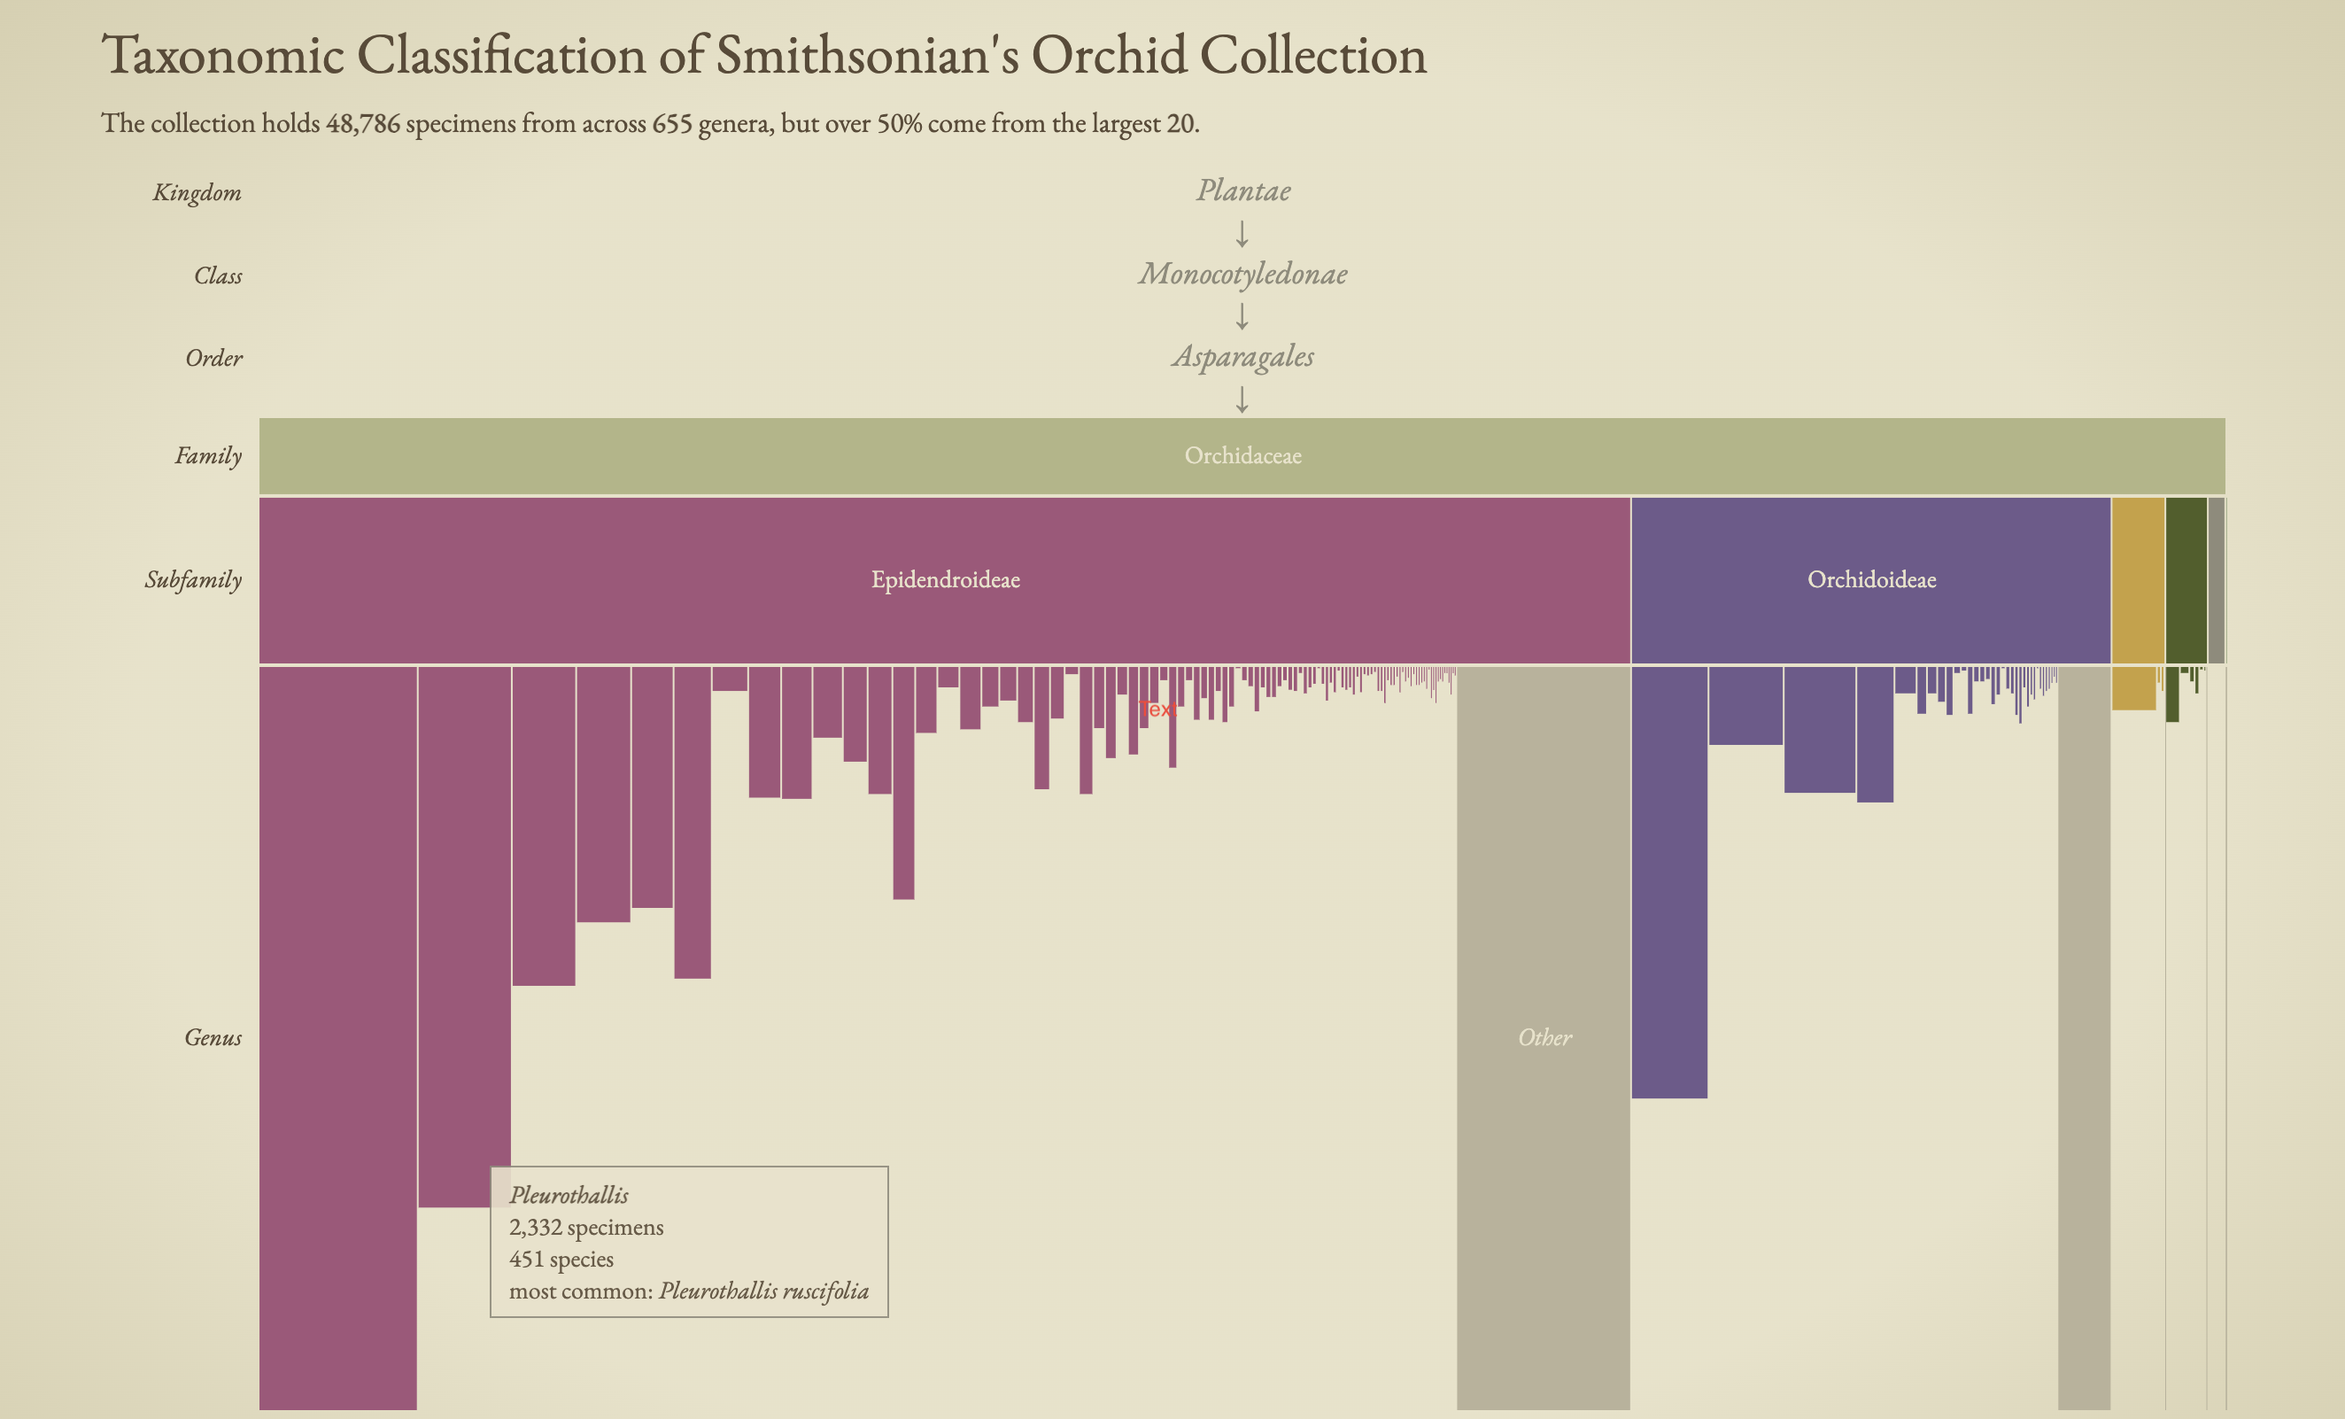
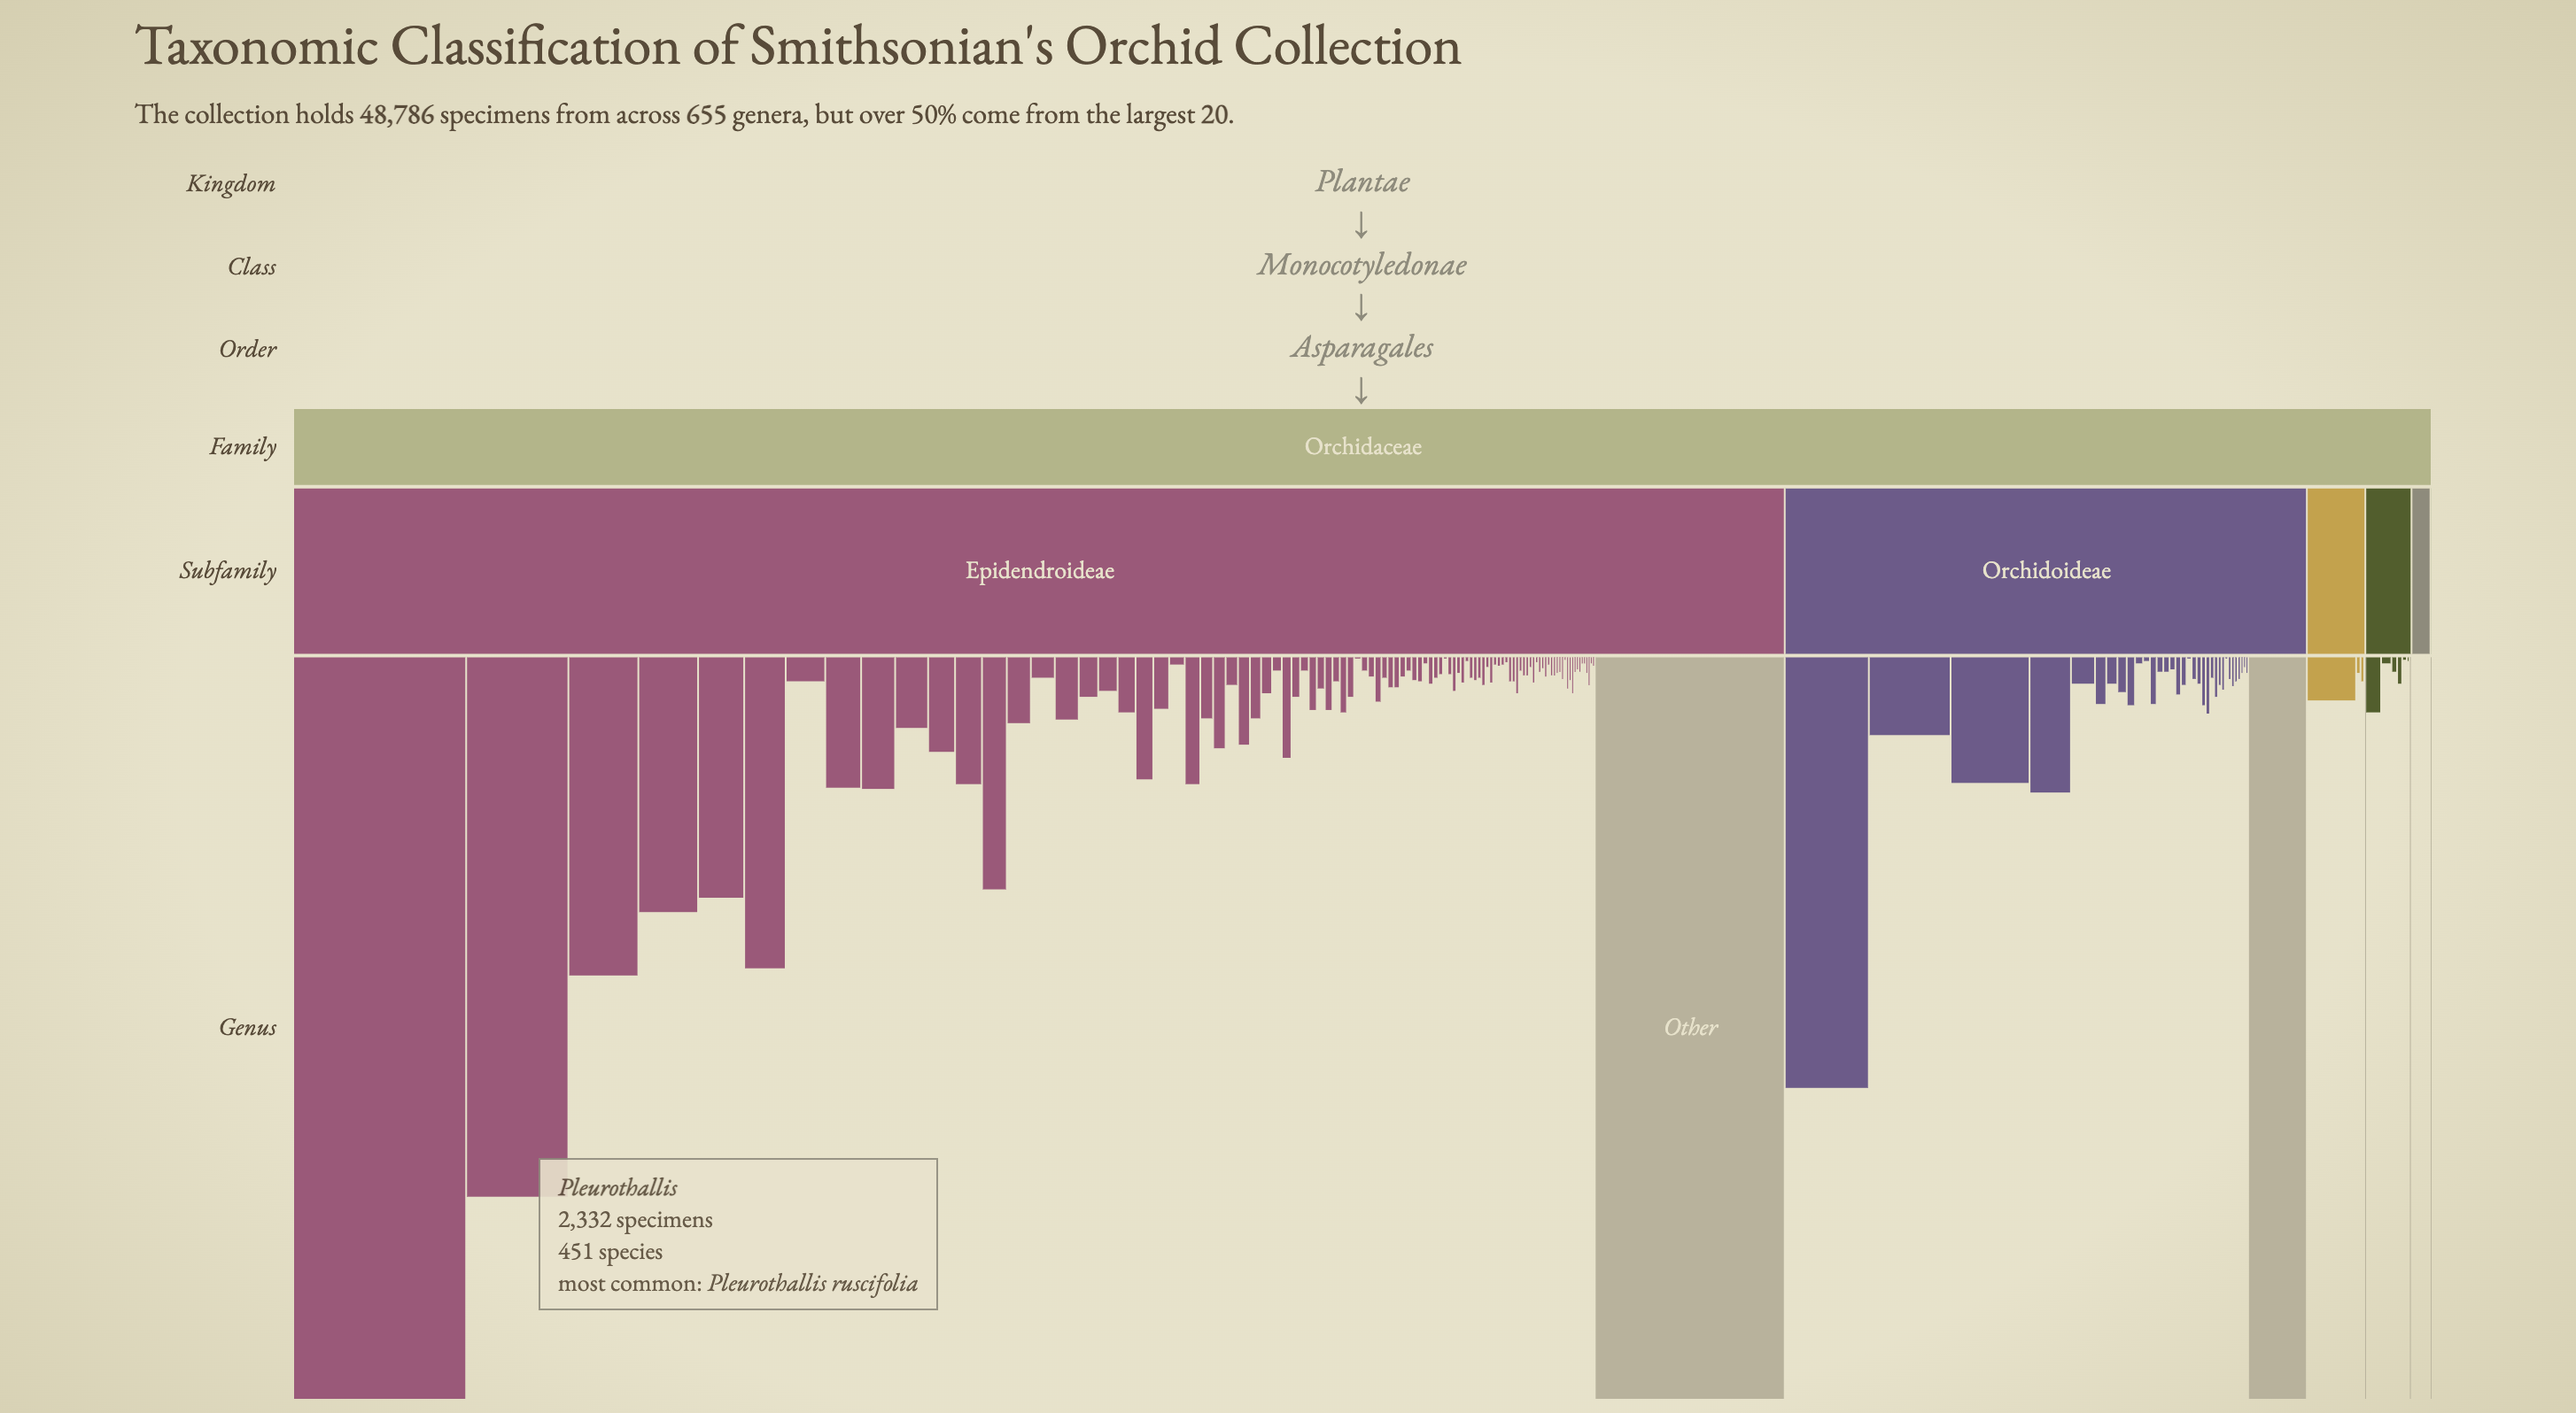
img updated + data fetch fixed

diff --git a/main.js b/main.js
@@ -23,7 +23,7 @@ window.addEventListener("resize", function () {
   timer = setTimeout(resize, 150);
 });
 
-d3.json("../data/orchid.json")
+d3.json("data/orchid.json")
   .then(data => {
     //console.log(data.length);
     //console.log(data[0]);
